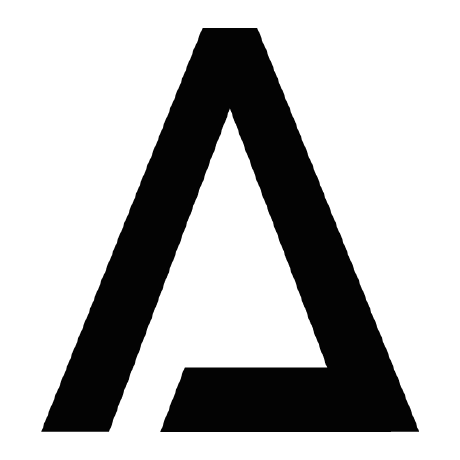
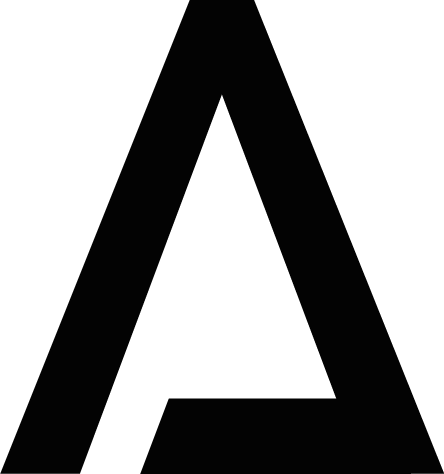
Final Demo GUI :sparkles:

Changed region(s): [[0.0, 0.0, 1.0, 1.0]]

diff --git a/python-gui/app.py b/python-gui/app.py
@@ -313,7 +313,7 @@ class GUI(object):
         master.geometry('%dx%d' % (self.width, self.height))
         master.resizable(width=False, height=False)
 
-        self.ICON_PATH = PATH + 'images/da_icon.png'
+        self.ICON_PATH = PATH + 'images/da_logo_resize.gif'
         self.imgicon = PhotoImage(file=self.ICON_PATH)
         master.tk.call('wm', 'iconphoto', master._w, self.imgicon)
 
@@ -337,7 +337,7 @@ class GUI(object):
         self.raisedFrame = Frame(self.lpanel, bd=3, relief=GROOVE)
         self.raisedFrame.grid(row=0, column=0)
 
-        self.logo = ImageTk.PhotoImage(Image.open(PATH + 'images/da_icon_resize.png'))
+        self.logo = ImageTk.PhotoImage(Image.open(PATH + 'images/da_logo_resize.gif'))
         self.logolabel = Label(self.raisedFrame, image=self.logo, width=205)
         self.logolabel.grid(row=0, column=0)
 
@@ -364,7 +364,7 @@ class GUI(object):
         )
         self.infolabel6.grid(row=3, column=0)
 
-        self.infotext = "Lorem Ipsum"
+        self.infotext = "Select the COM port and open it. Select any one of the eight states and click start demo to enable the corresponding state panel. You can now visualize the sensors data and control the actuators."
         self.infolabel4 = Label(
             self.lpanel, text=self.infotext, wraplength=205, font='"Consolas" 9'
         )
@@ -377,6 +377,8 @@ class GUI(object):
 
         self.comport = StringVar(master)
         self.comports = self.get_com_ports()
+        if not self.comports:
+            self.comports = ['No Devices Available']
         self.ddcom = OptionMenu(
             self.lpanel, self.comport, *self.comports, command=self.comport_select
         )
@@ -410,7 +412,7 @@ class GUI(object):
 
         #########################################################################################
 
-        # Seperator
+        # Separator
         Separator(self.mpanel, orient=VERTICAL).grid(
             row=0, column=1, rowspan=20, sticky=(N, S), padx=6
         )
@@ -423,11 +425,11 @@ class GUI(object):
         self.state1_panel = StatePanel(
             STATES[1], self.rpanel, row=0, column=0, width=170, padx=9
         )
-        self.state2_panel = StatePanel(
-            STATES[2], self.rpanel, row=1, column=0, width=170, padx=9
-        )
         self.state3_panel = StatePanel(
-            STATES[3], self.rpanel, row=2, column=0, width=170, padx=9
+            STATES[3], self.rpanel, row=1, column=0, width=170, padx=9
+        )
+        self.state2_panel = StatePanel(
+            STATES[2], self.rpanel, row=2, column=0, width=170, padx=9
         )
         self.state4_panel = StatePanel(
             STATES[4], self.rpanel, row=3, column=0, width=170, padx=9
@@ -435,7 +437,7 @@ class GUI(object):
 
         #########################################################################################
 
-        # Seperator
+        # Separator
         Separator(self.mpanel, orient=VERTICAL).grid(
             row=0, column=3, rowspan=20, sticky=(N, S), padx=6
         )
@@ -474,7 +476,7 @@ class GUI(object):
 
         #########################################################################################
 
-        # Seperator
+        # Separator
         Separator(self.mpanel, orient=VERTICAL).grid(
             row=0, column=3, rowspan=20, sticky=(N, S), padx=6
         )
@@ -565,6 +567,8 @@ if __name__ == '__main__':
     packet_listener_t.start()
 
     root = Tk()
+    root.wm_attributes('-type', 'splash')
+    # root.wm_attributes('-fullscreen','true')
     app = GUI(root)
     root.mainloop()
 
